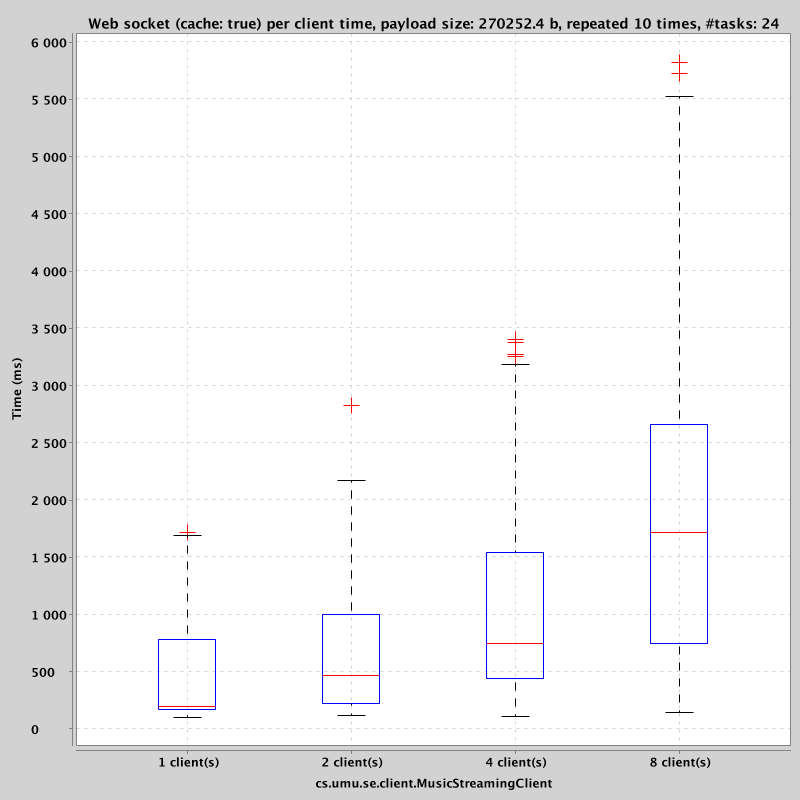
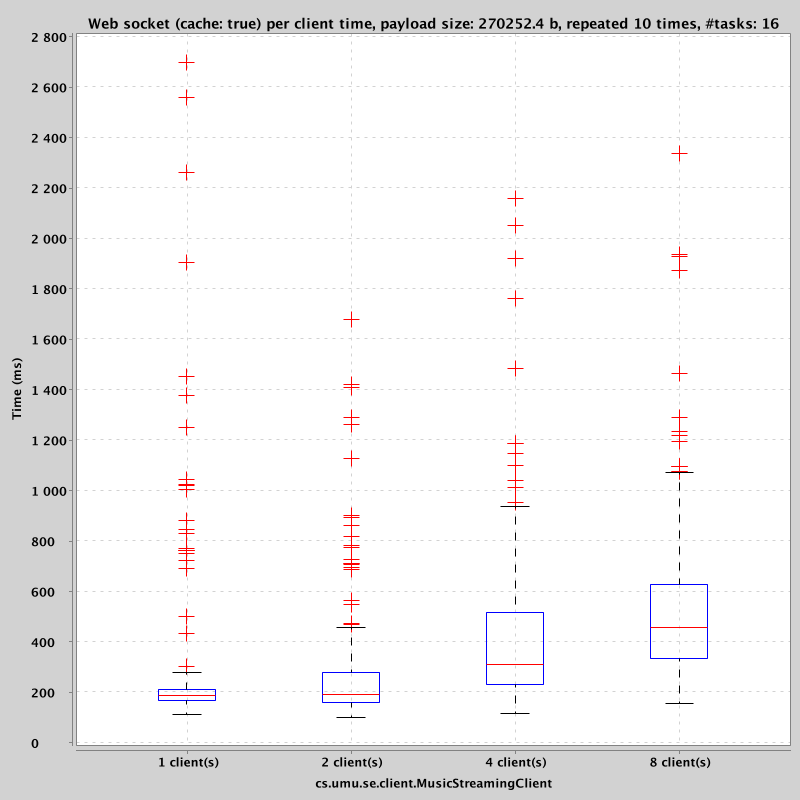
added benchmarks pictures

diff --git a/java/spadgify/src/main/java/cs/umu/se/client/MusicStreamingClientPerformanceTest.java b/java/spadgify/src/main/java/cs/umu/se/client/MusicStreamingClientPerformanceTest.java
@@ -96,7 +96,10 @@ public class MusicStreamingClientPerformanceTest {
             for (int k = 0; k < nrTasks; k++)
                 taskWorkers[k] = new WebSocketTaskWorker(songs[k], uri, getAll);
 
-            results.add(testSongWebSocketStreamingTotalTime(taskWorkers, nrThreads));
+            long res = testSongWebSocketStreamingTotalTime(taskWorkers, nrThreads);
+            if (res != -1)
+                results.add(res);
+
             System.out.println("testSongWebSocketStreamingNTimesTotalTime() iteration: " + i + " done, nrTasks: " + nrTasks + ", nrThreads: " + nrThreads);
         }
         return results;
@@ -108,10 +111,13 @@ public class MusicStreamingClientPerformanceTest {
 
         // perform test
         long t1 = System.currentTimeMillis();
-        executeWorkers(taskWorkers);
+        boolean res = executeWorkers(taskWorkers);
         long t2 = System.currentTimeMillis();
 
-        return t2 - t1;
+        if (res)
+            return t2 - t1;
+        else
+            return -1;
     }
 
     private List<Long> testSongStreamingITimesPerClientTime(Song[] songs, int iterations, int nrTasks, boolean getAll, int nrThreads) {
@@ -126,7 +132,7 @@ public class MusicStreamingClientPerformanceTest {
             // Create a new thread pool
             this.executor = Executors.newFixedThreadPool(nrThreads);
 
-            executeWorkers(testWorkers);
+            boolean res = executeWorkers(testWorkers);
 
             // save all client times for his iteration
             for (WebSocketTaskWorker testWorker : testWorkers)
@@ -138,7 +144,7 @@ public class MusicStreamingClientPerformanceTest {
         return results;
     }
 
-    private void executeWorkers(WebSocketTaskWorker[] taskWorkers) {
+    private boolean executeWorkers(WebSocketTaskWorker[] taskWorkers) {
         // Send the workers to the thread pool
         for (WebSocketTaskWorker taskWorker : taskWorkers)
             executor.execute(taskWorker);
@@ -149,7 +155,7 @@ public class MusicStreamingClientPerformanceTest {
         // Wait for the thread pool to shut down
         try {
             long timeout = 120000;
-            executor.awaitTermination(timeout, TimeUnit.MILLISECONDS);
+            return executor.awaitTermination(timeout, TimeUnit.MILLISECONDS);
         } catch (InterruptedException e) {
             throw new RuntimeException(e);
         }

diff --git a/java/spadgify/src/main/java/cs/umu/se/TestClient.java b/java/spadgify/src/main/java/cs/umu/se/TestClient.java
@@ -64,6 +64,9 @@ public class TestClient {
         }
 
 
+        if (false) { // remove later
+
+
         // test gRPC backend
         // ------------------------------------------------
         Storage storage = new ClientBackend(nodeIp, nodePort, saveFolderPath, m);
@@ -101,9 +104,7 @@ public class TestClient {
             System.out.println("gRPC performance tests done!");
         }
 
-        // remove later
-        if (true)
-            return;
+        }
 
         // test web socket backend
         // ------------------------------------------------
@@ -134,16 +135,16 @@ public class TestClient {
 
             // do tests
             int iterations = 10;
-            int nrTasks = 24;
+            int nrTasks = 16;
             int nrBoxes = 4;
             long songSize = (long) 10810096 / 2;
             boolean getAll = true;
-            boolean cache = true;
+            boolean cache = false;
 
             // Test increasing amount of clients - without cache
             String title = "Web socket (cache: " + cache + ") total time, payload size: " + songSize + " b, repeated " + iterations + " times, #tasks: " + nrTasks;
             Song[] songs = mediaUtil.createCacheableDummySongs(nrTasks, songSize);
-            test.makeBoxPlotTotalTime(title, nrBoxes, nrTasks, iterations, songs);
+//            test.makeBoxPlotTotalTime(title, nrBoxes, nrTasks, iterations, songs);
 
             title = "Web socket (cache: " + cache + ") per client time, payload size: " + songSize + " b, repeated " + iterations + " times, #tasks: " + nrTasks;
             songs = mediaUtil.createCacheableDummySongs(nrTasks, songSize);
